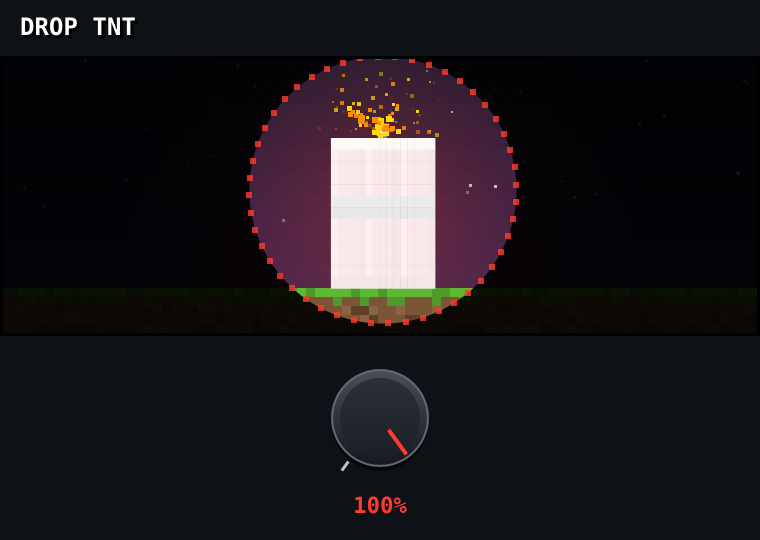
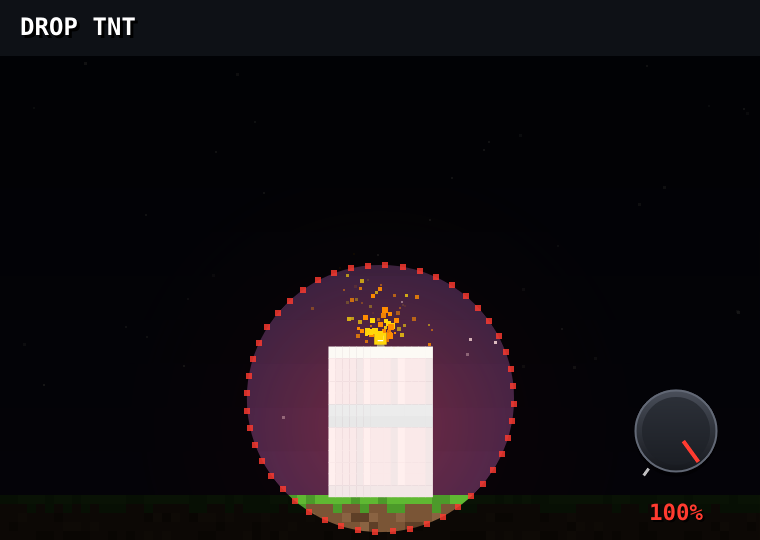
Drop TNT v3.3: full-window scene, corner knob overlay, gate up to 1/32
Claude-Session: https://claude.ai/code/session_01Dsu9aciw4cCSo7fLzDqZzq

diff --git a/Source/PluginEditor.cpp b/Source/PluginEditor.cpp
@@ -131,11 +131,12 @@ void DropTNTEditor::resized()
 {
     auto area = getLocalBounds();
     area.removeFromTop (56);
-    sceneArea = area.removeFromTop (280);
-    groundY = (float) sceneArea.getBottom() - 48.0f;
+    sceneArea = area;                                       // scene fills everything below the title
+    groundY = (float) sceneArea.getBottom() - 45.0f;        // grass line near the bottom
 
-    buildArea = area.reduced (20, 12);
-    buildSlider.setBounds (buildArea.withSizeKeepingCentre (140, 140).withY (buildArea.getY()));
+    // knob floats over the scene, bottom-right; percentage sits under it on the ground
+    constexpr int knobSize = 120;
+    buildSlider.setBounds (sceneArea.getRight() - knobSize - 24, (int) groundY - knobSize - 4, knobSize, knobSize);
     rebuildBackground();
 }
 
@@ -433,7 +434,7 @@ void DropTNTEditor::paint (Graphics& g)
         {
             const auto geo = getGeometry();
             const auto centre = geo.topLeft + Point<float> (geo.width * 0.5f, artH * geo.pxY * 0.5f);
-            const float maxR = 520.0f, minR = artH * geo.pxY * 0.68f;
+            const float maxR = 640.0f, minR = artH * geo.pxY * 0.68f;
             const float t = std::pow (build, 0.9f);
             const float rad = maxR + (minR - maxR) * t;
 
@@ -467,15 +468,14 @@ void DropTNTEditor::paint (Graphics& g)
             g.drawText ("DROP!", r, Justification::centred);
         }
     }
-    g.setColour (Colours::black);
-    g.drawRect (sceneArea, 3);
-
     // value under the knob: 0% - 100%
     const int value = roundToInt (build * 100.0f);
+    auto valueArea = buildSlider.getBounds().withY (buildSlider.getBottom() + 4).withHeight (36);
     g.setFont (PixelLookAndFeel::pixelFont (26.0f));
-    g.setColour (value > 85 ? hotRed : value > 50 ? Colour (0xffffd60a) : Colours::white.withAlpha (0.85f));
-    g.drawText (String (value) + "%", buildSlider.getBounds().withY (buildSlider.getBottom() + 2).withHeight (32),
-                Justification::centred);
+    g.setColour (Colours::black.withAlpha (0.8f));
+    g.drawText (String (value) + "%", valueArea.translated (2, 2), Justification::centred);
+    g.setColour (value > 85 ? hotRed : value > 50 ? Colour (0xffffd60a) : Colours::white);
+    g.drawText (String (value) + "%", valueArea, Justification::centred);
 
     if (screenFlash > 0.0f)
     {

diff --git a/Source/PluginProcessor.cpp b/Source/PluginProcessor.cpp
@@ -194,9 +194,9 @@ void DropTNTProcessor::processBlock (AudioBuffer<float>& buffer, MidiBuffer&)
             const float driveMix = ramp (b, 0.0f, 0.10f);              // fades in, no jump at the start
             const float driveComp = 1.0f / (0.7f * std::tanh (drive * 0.35f) / 0.35f + 0.3f * jmin (drive, 1.0f / 0.35f));
 
-            // gate: 1/4 -> 1/8 -> 1/16 across 0-100, depth grows gently, open part compensated
+            // gate: 1/4 -> 1/8 -> 1/16 -> 1/32 across 0-100, depth grows gently, open part compensated
             const bool   gateOn = b >= 0.02f;
-            const double gateDiv = b < 0.34f ? 1.0 : b < 0.67f ? 0.5 : 0.25;
+            const double gateDiv = b < 0.25f ? 1.0 : b < 0.50f ? 0.5 : b < 0.75f ? 0.25 : 0.125;
             const float  gateDepth = 0.8f * std::pow (ramp (b, 0.02f, 0.70f), 1.3f);
             const float  gateEnergy = 0.5f + 0.5f * (1.0f - gateDepth) * (1.0f - gateDepth);
             const float  gateComp = std::pow (gateEnergy, -0.35f);

diff --git a/Source/PluginProcessor.h b/Source/PluginProcessor.h
@@ -5,7 +5,7 @@
 
 // Drop TNT v3: one "Build" knob (0-100). Everything squeezes into a point, then explodes.
 //   Build up  -> low cut sweeps up (thin, piercing), crunch distortion drives harder,
-//                tempo gate 1/4 -> 1/8 -> 1/16 (gentle, level-compensated),
+//                tempo gate 1/4 -> 1/8 -> 1/16 -> 1/32 (gentle, level-compensated),
 //                DJ-style echo: time shrinks 1/2 beat -> a few ms with rising feedback
 //                (pitch glides up into a sharp resonant buzz), room shrinks from big to tiny,
 //                compressor squashes harder, stereo collapses to mono.
@@ -81,7 +81,7 @@ private:
     float echoHpCoeff = 0.97f;
 
 
-    // gate (1/4 -> 1/8 -> 1/16, gentle depth, level-compensated)
+    // gate (1/4 -> 1/32, gentle depth, level-compensated)
     float gateGain = 1.0f, gateCoeff = 0.99f;
 
     // compressor ("squash")

diff --git a/Source/PluginEditor.h b/Source/PluginEditor.h
@@ -56,7 +56,7 @@ private:
     juce::Slider buildSlider;
     std::unique_ptr<juce::AudioProcessorValueTreeState::SliderAttachment> buildAttachment;
 
-    juce::Rectangle<int> sceneArea, buildArea;
+    juce::Rectangle<int> sceneArea;
     float groundY = 0.0f;
 
     std::vector<Particle> particles;

diff --git a/README.md b/README.md
@@ -1,4 +1,4 @@
-# Drop TNT v3.2 — Build-up 蓄力巨集（AU / VST3）
+# Drop TNT v3.3 — Build-up 蓄力巨集（AU / VST3）
 
 一顆 **BUILD 0–100** 旋鈕。往上推是蓄力，拉回 0 就是 drop。
 
@@ -11,6 +11,10 @@
 | 85–100 | +20 dB 最髒 | 到 1.8 kHz | 幾毫秒 → 尖銳嗡鳴 | 極小 | 8:1 | 單聲道 |
 
 **拉回 0 = drop**：所有東西一次放開。
+
+### v3.3
+- Gate 範圍改成 1/4 → 1/8 → 1/16 → 1/32
+- 場景填滿整個視窗，草地在最下方；旋鈕浮在右下角、疊在畫面上層
 
 ### v3.2
 - Gate 回來：1/4 → 1/8 → 1/16（不超過 1/16），深度溫和漸進＋音量補償，0–100 音量維持在約 ±1.5 dB
@@ -42,8 +46,8 @@
 
 ## 安裝
 到 GitHub 的 **Releases** 下載：
-- Mac：`DropTNT-3.2.0-mac.pkg` → 雙擊安裝（AU + VST3）
-- Windows：`DropTNT-3.2.0-win-setup.exe`（VST3，Ableton / FL Studio / Cubase）
+- Mac：`DropTNT-3.3.0-mac.pkg` → 雙擊安裝（AU + VST3）
+- Windows：`DropTNT-3.3.0-win-setup.exe`（VST3，Ableton / FL Studio / Cubase）
 
 第一次開啟若被擋：Mac → 系統設定 › 隱私權與安全性 › 仍要打開；Windows → 其他資訊 › 仍要執行。
 
@@ -51,5 +55,5 @@
 ```bash
 cmake -B build -DCMAKE_BUILD_TYPE=Release
 cmake --build build --config Release -j8
-./make_installer.sh     # 產生 dist/DropTNT-3.2.0-mac.pkg
+./make_installer.sh     # 產生 dist/DropTNT-3.3.0-mac.pkg
 ```
